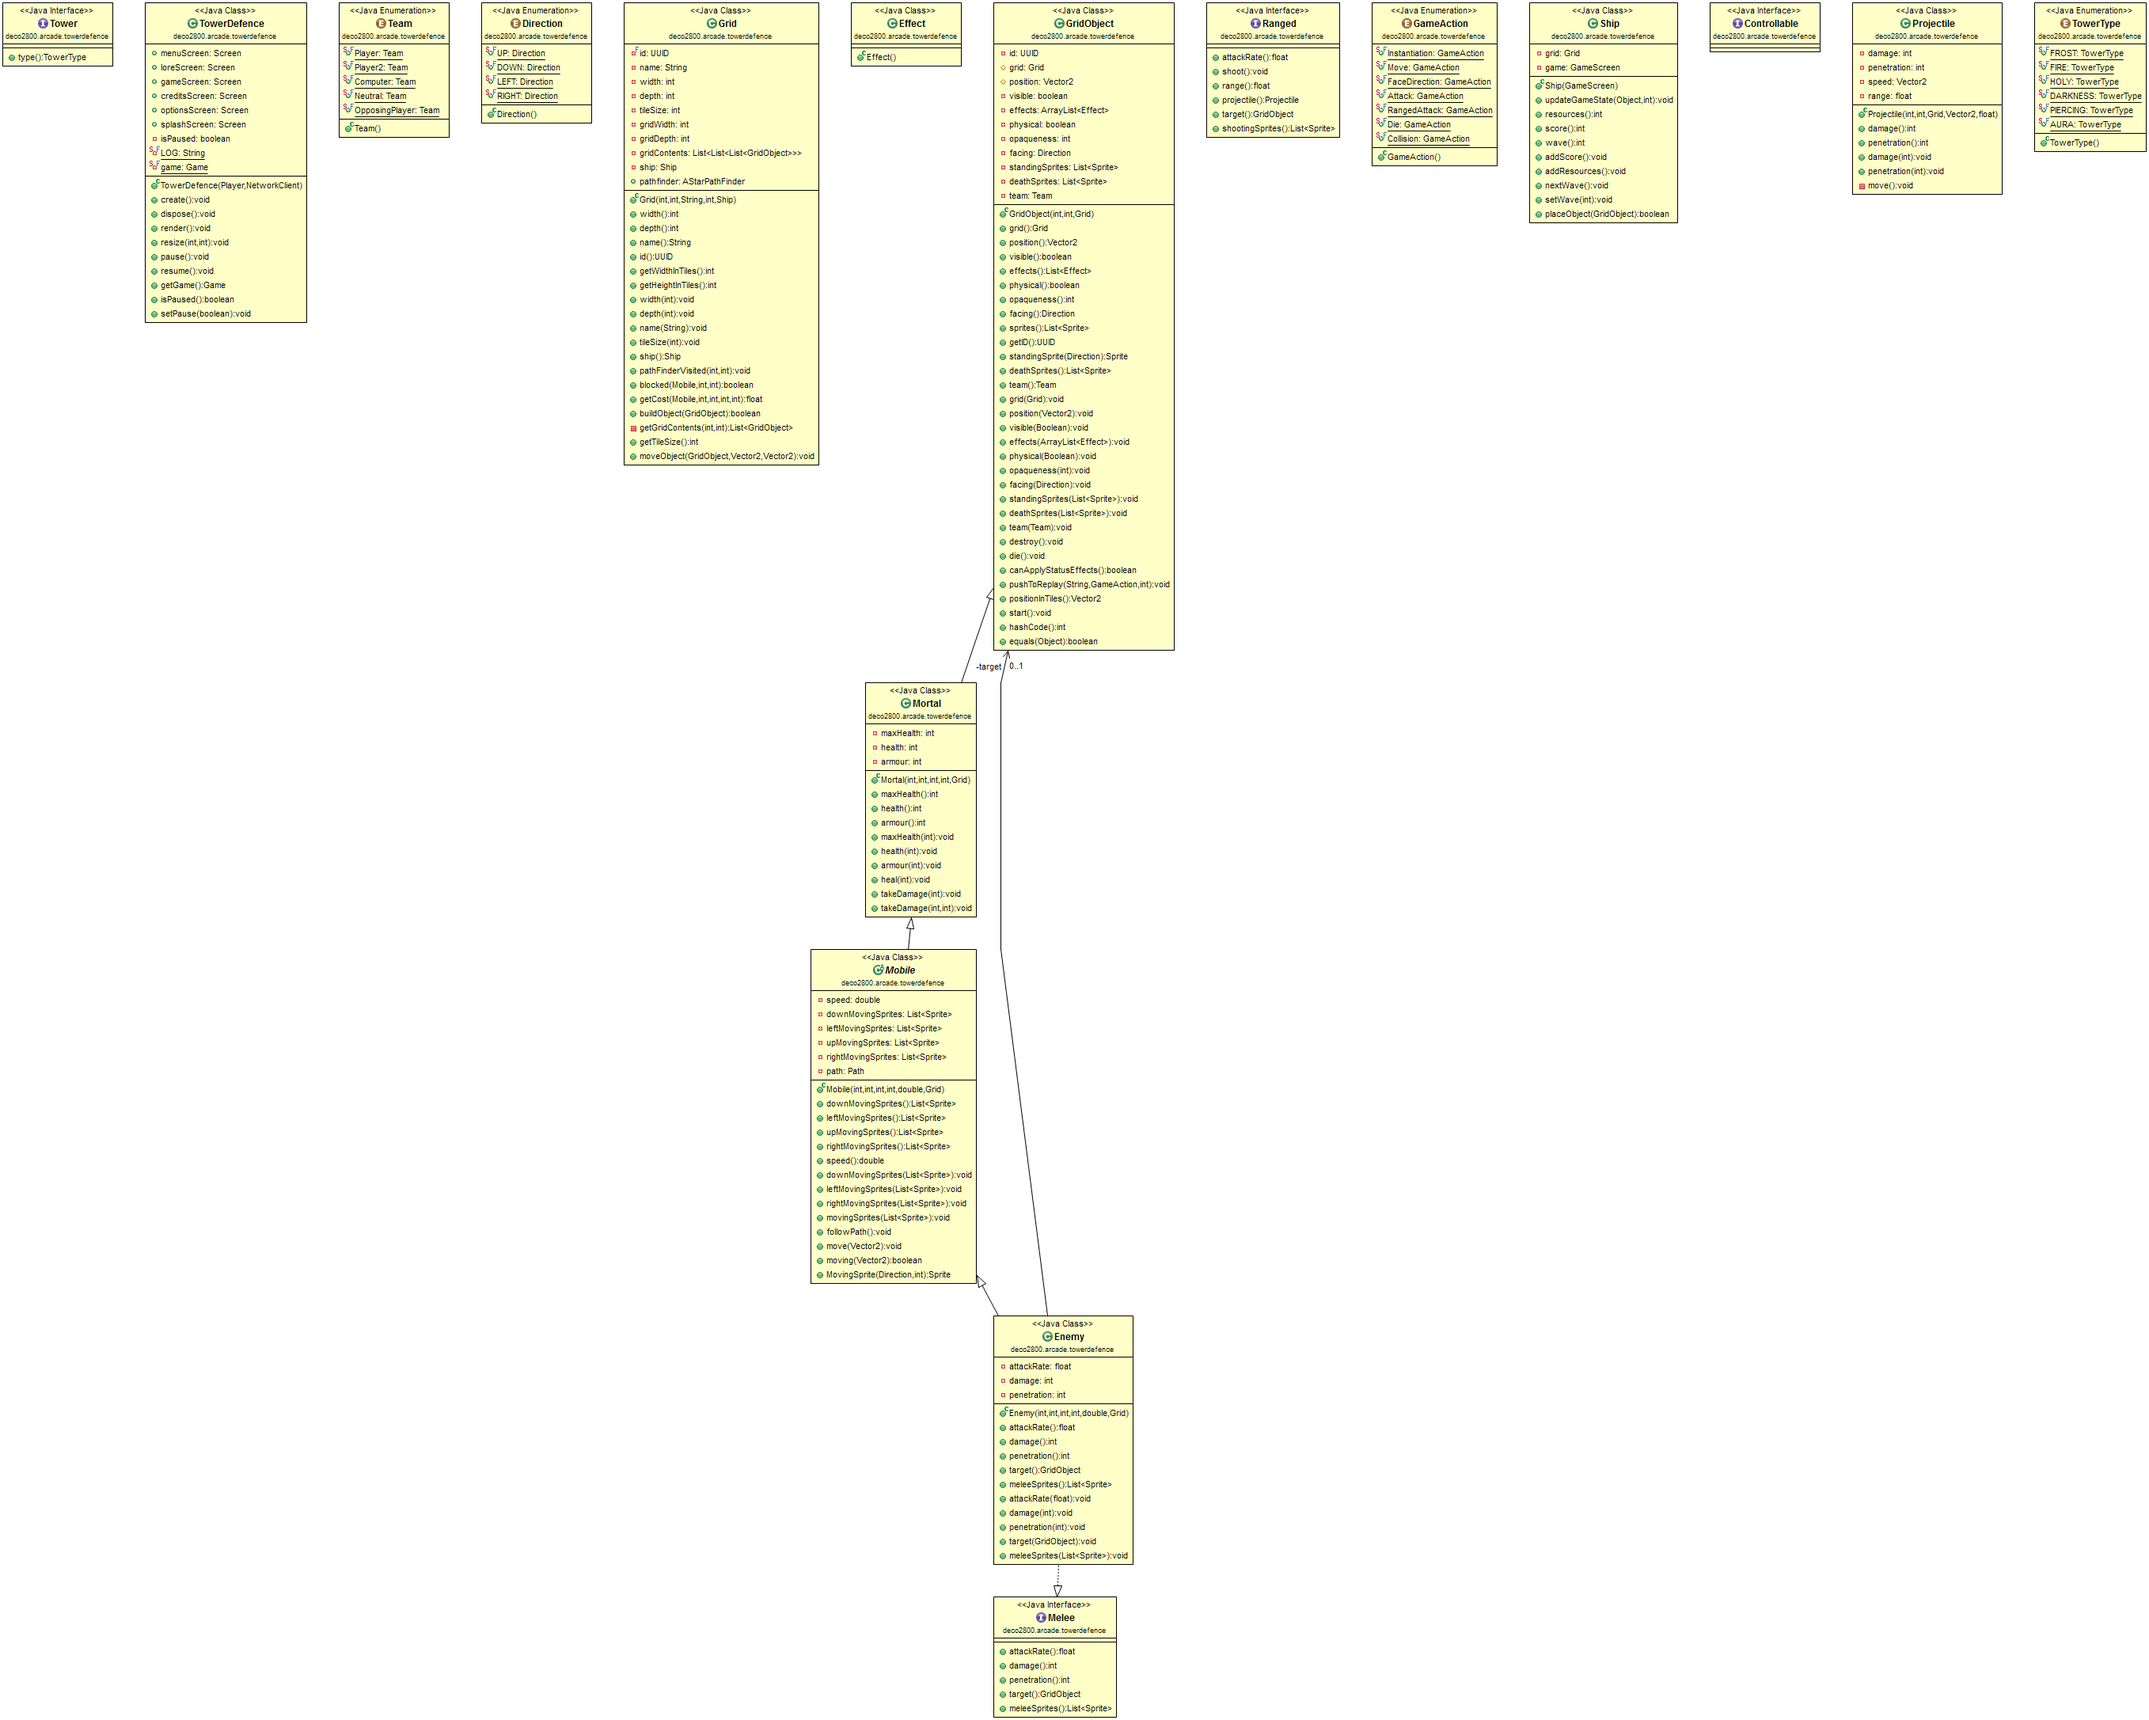
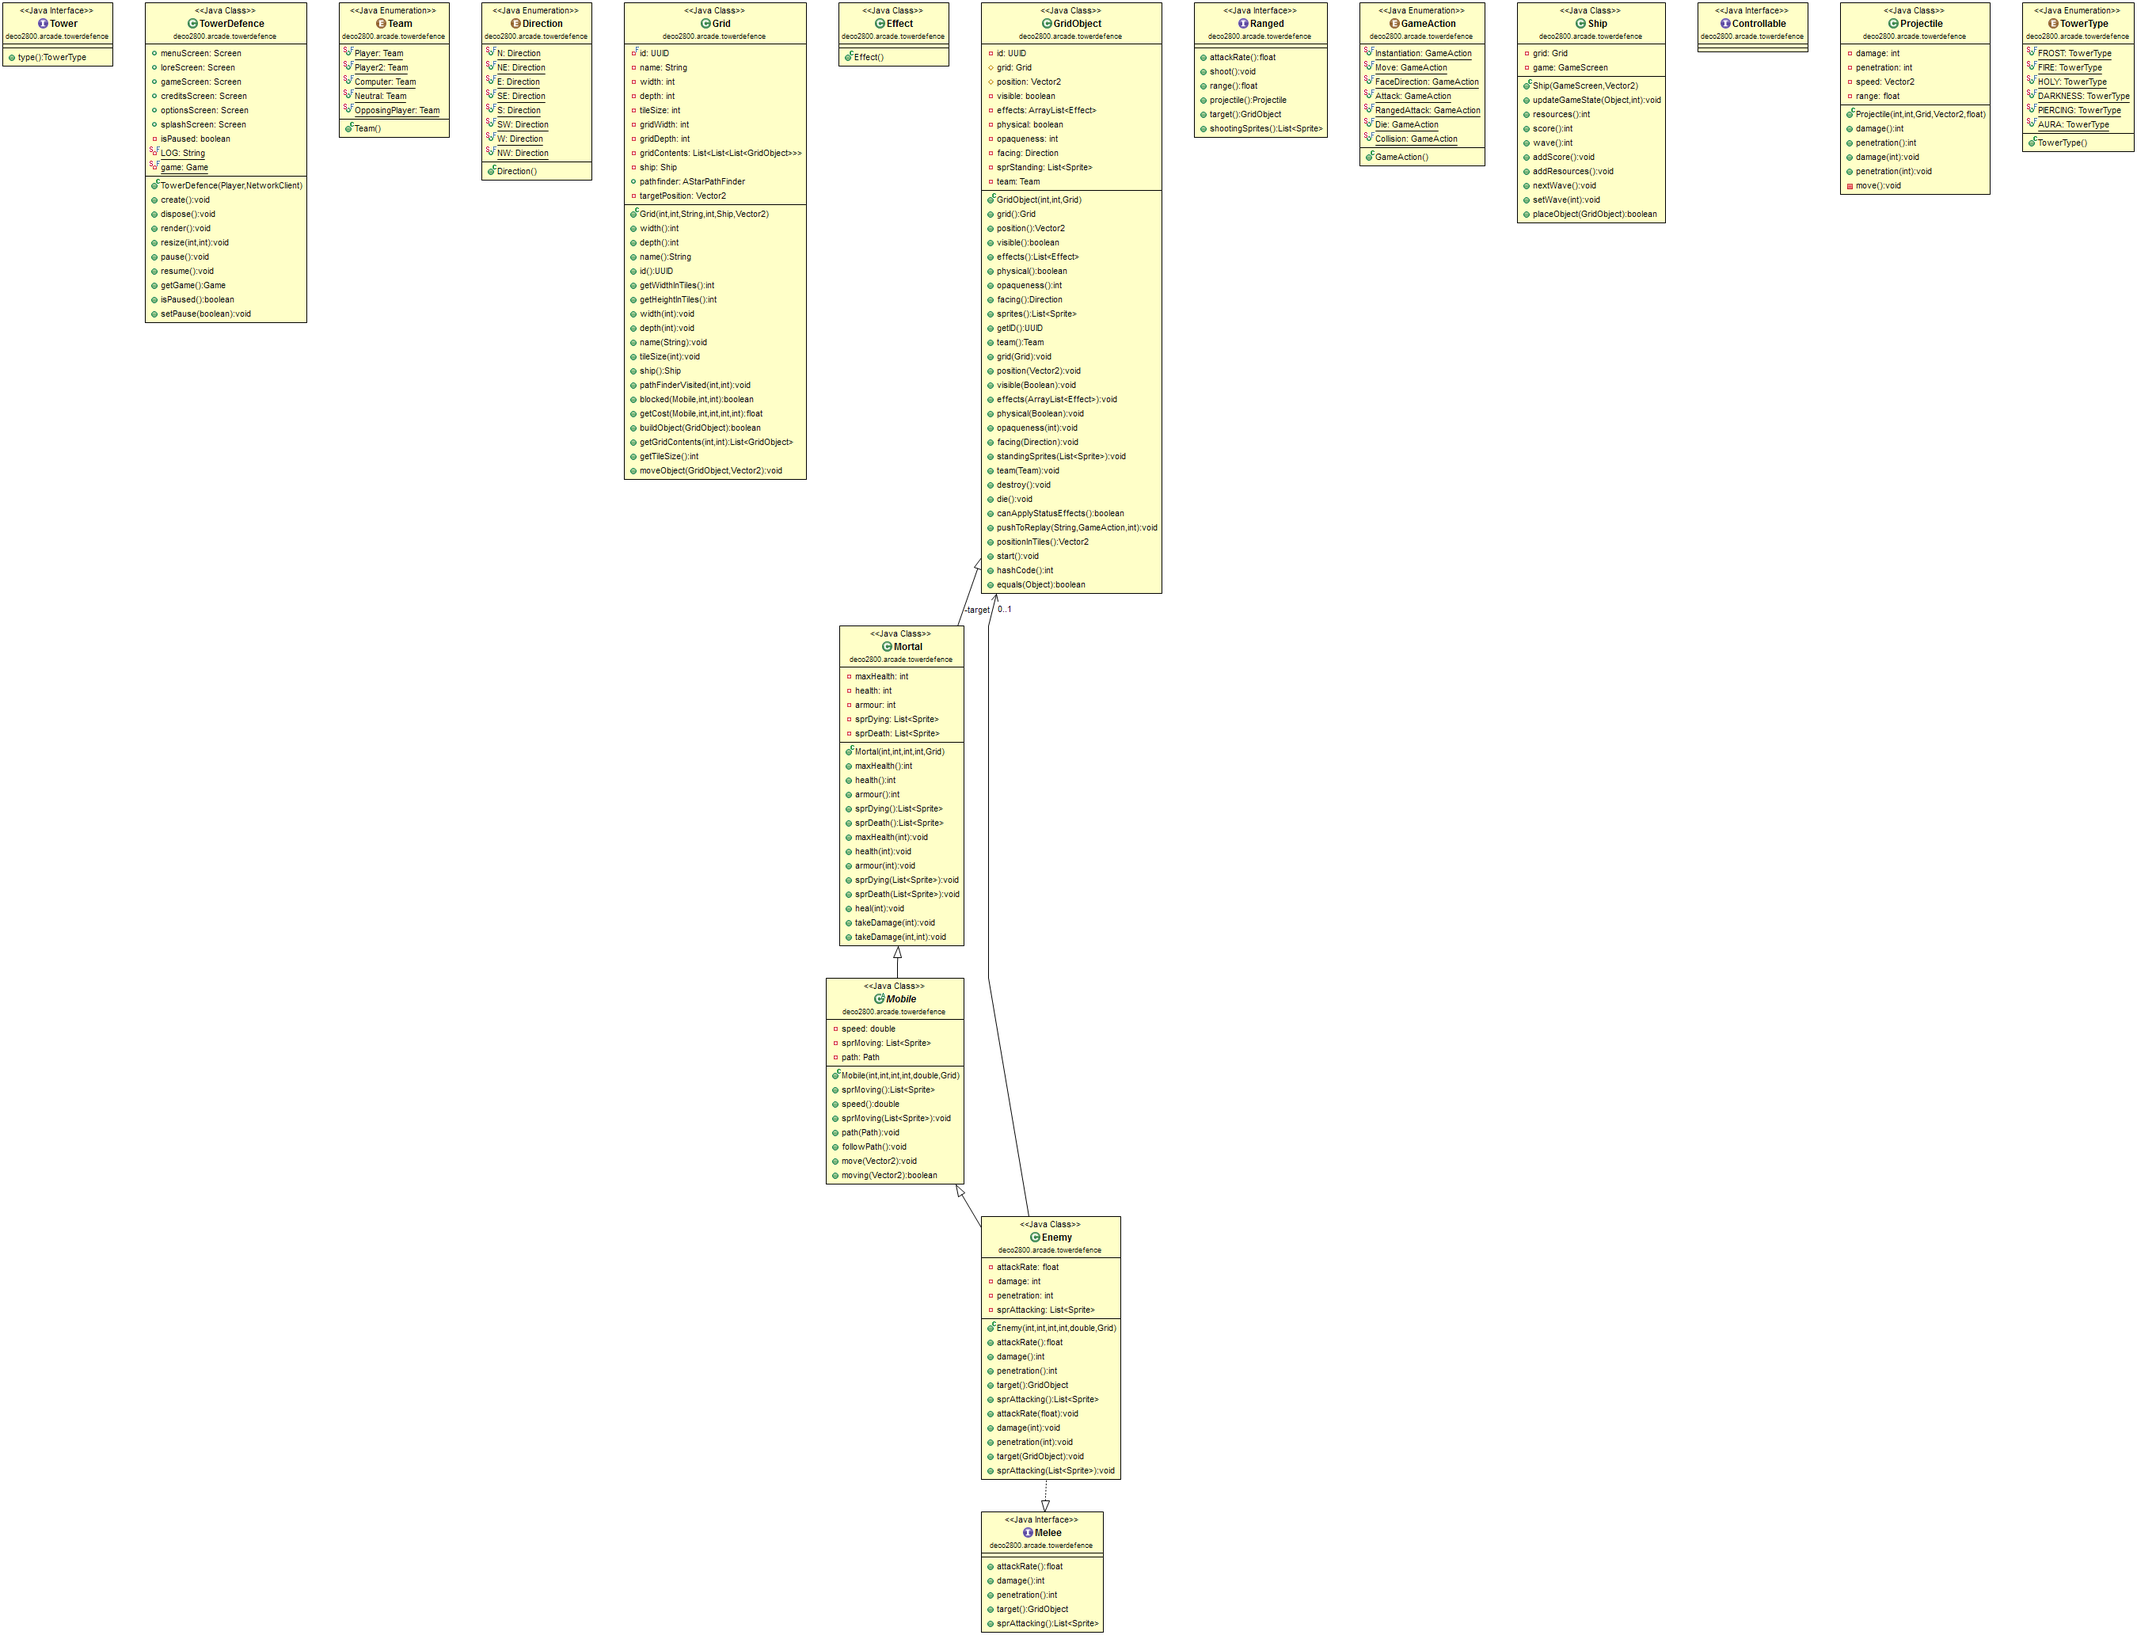
Created the effects class for insertion into a GridObjects effects list.

Changed region(s): [[0.0, 0.0, 1.0, 1.0]]

diff --git a/deco2800.arcade.towerdefence/src/main/java/deco2800/arcade/towerdefence/Effect.java b/deco2800.arcade.towerdefence/src/main/java/deco2800/arcade/towerdefence/Effect.java
@@ -1,14 +1,61 @@
 package deco2800.arcade.towerdefence;
 
+/**
+ * This is the class of the effect that a GridObject can apply to another GridObject(s)
+ * Instantiating this and placing it in a GridObject's effect list allows it to apply it on another GridObject.
+ * To use this class construct with a name and amount then call the appropriate method for the effect on the target.
+ * This class contains methods for every effect in the game. 
+ * This can be abused in that if you wish to use a different effect than what you've constructed it with, you can.
+ * 
+ */
 public class Effect {
-	/**
-	 * TODO Dan write the effects class.
-	 */
 	// Fields
-
-	// Constructors
-
+	// the name of the effect
+	private final String name;
+	// the amount of the effect as a float.
+	private final double amount;
+	
+	// Constructor
+	public Effect(String name, int amount){
+		this.name = name;
+		this.amount = amount;
+	}
 	// Getters
+	/**
+	 * Returns the name of the effect.
+	 * @return name of the effect.
+	 */
+	public String name() {
+		return name;
+	}
+	
+	/**
+	 * Returns the amount of the effect as an integer.
+	 * @return amount of the effect.
+	 */
+	public double amount() {
+		return amount;
+	}
 
 	// Setters
+	
+	// Methods
+	// Create methods here for the variety of statuses that an effect inflicts
+	
+	/**
+	 * A method to slow the attack rate and movement speed of an enemy by the effect amount.
+	 * @param target
+	 */
+	public void slowEnemy(GridObject target){
+		// Get the Enemy Attack Rate
+		double originalAR = ((Enemy) target).attackRate();
+		// Get the Enemy Movement Speed
+		double originalSpeed = ((Mobile) target).speed();
+		// Set the Enemy Attack Rate lower by amount
+		((Enemy) target).attackRate(originalAR - amount);
+		// Set the Enemy Movement Speed lower by amount
+		((Mobile) target).speed(originalSpeed - amount);
+	}
+	
+		
 }

diff --git a/deco2800.arcade.towerdefence/src/main/java/deco2800/arcade/towerdefence/Enemy.java b/deco2800.arcade.towerdefence/src/main/java/deco2800/arcade/towerdefence/Enemy.java
@@ -14,7 +14,7 @@ import com.badlogic.gdx.graphics.g2d.Sprite;
 public class Enemy extends Mobile implements Melee {
 	// Fields
 	// The number of attacks per second the enemy can do.
-	private float attackRate;
+	private double attackRate;
 	// The amount of damage the enemy can inflict with an attack.
 	private int damage;
 	// The amount of armour the enemy's attack ignores.
@@ -34,7 +34,7 @@ public class Enemy extends Mobile implements Melee {
 	/**
 	 * Returns the attacks per second the enemy can make.
 	 */
-	public float attackRate() {
+	public double attackRate() {
 		return attackRate;
 	}
 
@@ -73,7 +73,7 @@ public class Enemy extends Mobile implements Melee {
 	 * @param ar
 	 *            The new attack rate, in attacks per second
 	 */
-	public void attackRate(float ar) {
+	public void attackRate(double ar) {
 		this.attackRate = ar;
 	}
 

diff --git a/deco2800.arcade.towerdefence/src/main/java/deco2800/arcade/towerdefence/GridObject.java b/deco2800.arcade.towerdefence/src/main/java/deco2800/arcade/towerdefence/GridObject.java
@@ -24,7 +24,7 @@ public class GridObject {
 	// Whether the object is visible.
 	private boolean visible;
 	// The list of status effects this GridObject can apply.
-	private ArrayList<Effect> effects = new ArrayList<Effect>();
+	private List<Effect> effects = new ArrayList<Effect>();
 	// Whether this object has collision.
 	private boolean physical;
 	// The opaqueness of the object as a percentage.

diff --git a/deco2800.arcade.towerdefence/src/main/java/deco2800/arcade/towerdefence/Melee.java b/deco2800.arcade.towerdefence/src/main/java/deco2800/arcade/towerdefence/Melee.java
@@ -17,7 +17,7 @@ public interface Melee {
 	 * 
 	 * @return The number of attacks per second as a floating point number.
 	 */
-	public float attackRate();
+	public double attackRate();
 
 	/**
 	 * Returns the damage of an attack

diff --git a/deco2800.arcade.towerdefence/src/main/java/deco2800/arcade/towerdefence/Mobile.java b/deco2800.arcade.towerdefence/src/main/java/deco2800/arcade/towerdefence/Mobile.java
@@ -86,6 +86,10 @@ public abstract class Mobile extends Mortal {
 	public void path(Path path) {
 		this.path = path;
 	}
+	
+	public void speed(double speed){
+		this.speed = speed;
+	}
 
 	// Methods
 	/**
